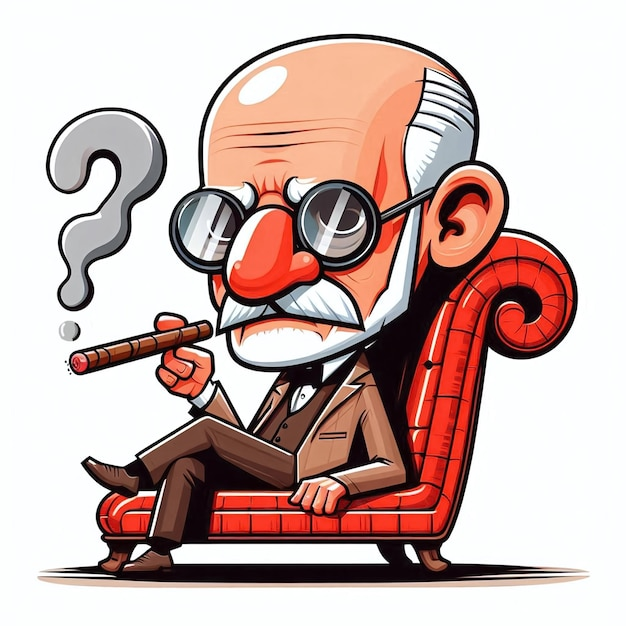
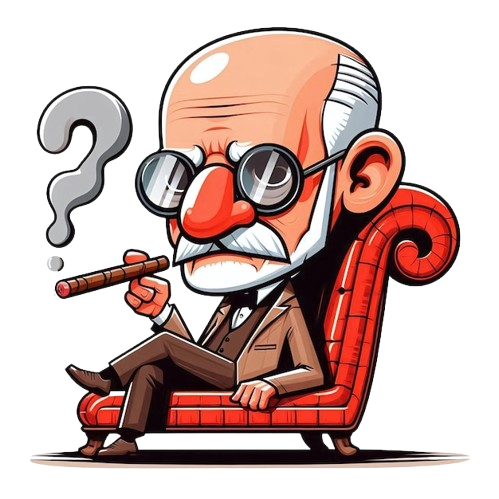
added texts

diff --git a/processo-seletivo.html b/processo-seletivo.html
@@ -83,11 +83,29 @@
 
       <div class="container" data-aos="fade-up" data-aos-delay="100">
         <div class="processo-seletivo-content">
-          <h3>Faça parte da nossa equipe!</h3>
-          <p>Lorem ipsum dolor sit amet, consectetur adipiscing elit. Sed do eiusmod tempor incididunt ut labore et dolore magna aliqua. Ut enim ad minim veniam, quis nostrud exercitation ullamco laboris.</p>
-          <p>Duis aute irure dolor in reprehenderit in voluptate velit esse cillum dolore eu fugiat nulla pariatur. Excepteur sint occaecat cupidatat non proident.</p>
-          <p>Lorem ipsum dolor sit amet, consectetur adipiscing elit. Sed do eiusmod tempor incididunt ut labore et dolore magna aliqua. Ut enim ad minim veniam, quis nostrud exercitation ullamco laboris.</p>
-          <p>Duis aute irure dolor in reprehenderit in voluptate velit esse cillum dolore eu fugiat nulla pariatur. Excepteur sint occaecat cupidatat non proident.</p>
+          <h3>Por que participar?</h3>
+          <p>Participar do Centro Acadêmico é construir o curso junto, desenvolver senso crítico, aprender na prática e transformar a experiência universitária.
+          <p><strong>Setores do centro acadêmico, funções e características: </strong><br> <br>
+
+            <strong> Setor de Cultura e Eventos:</strong><br>
+            Responsável pela organização de eventos acadêmicos, culturais e de integração entre os estudantes. Atua no planejamento, execução e divulgação das atividades.
+            Qualidades importantes: organização, criatividade, boa comunicação e trabalho em equipe. <br> <br>
+            
+            <strong> Tesouraria:</strong><br>
+            Cuida do controle financeiro, organização de recursos e repasse das informações financeiras definidas pela Diretoria.
+            Qualidades importantes: responsabilidade, transparência, atenção aos detalhes e comprometimento.<br> <br>
+            
+            <strong> Setor de Produtos:</strong><br>
+            Responsável pelo desenvolvimento e organização de produtos do Centro Acadêmico, como camisetas, brindes e materiais institucionais.
+            Qualidades importantes: criatividade, planejamento, senso estético e organização.<br><br>
+            
+            <strong> Marketing/Instagram:</strong><br>
+            Cuida da comunicação visual e da divulgação das ações do Centro Acadêmico, seguindo as diretrizes da Diretoria.
+            Qualidades importantes: criatividade, senso estético, boa escrita, constância e responsabilidade com informações.<br><br>
+            
+           <strong> Secretaria:</strong><br>
+            Responsável pela organização interna, registros, atas, documentos e apoio administrativo às atividades do Centro Acadêmico.
+            Qualidades importantes: organização, responsabilidade, clareza na comunicação e atenção.</p>
           <a href="#" class="processo-seletivo-btn">
             Inscreva-se Agora <i class="bi bi-arrow-right"></i>
           </a>

diff --git a/mascote.html b/mascote.html
@@ -90,12 +90,7 @@
 
           <div class="mascote-content" data-aos="fade-left" data-aos-delay="300">
             <h3>Olá, eu sou o <span>Freud</span>!</h3>
-            <p>Lorem ipsum dolor sit amet, consectetur adipiscing elit. Sed do eiusmod tempor incididunt ut labore et dolore magna aliqua. Ut enim ad minim veniam, quis nostrud exercitation ullamco laboris.</p>
-            <p>Duis aute irure dolor in reprehenderit in voluptate velit esse cillum dolore eu fugiat nulla pariatur. Excepteur sint occaecat cupidatat non proident.</p>
-            <p>Lorem ipsum dolor sit amet, consectetur adipiscing elit. Sed do eiusmod tempor incididunt ut labore et dolore magna aliqua. Ut enim ad minim veniam, quis nostrud exercitation ullamco laboris.</p>
-            <p>Duis aute irure dolor in reprehenderit in voluptate velit esse cillum dolore eu fugiat nulla pariatur. Excepteur sint occaecat cupidatat non proident.</p>
-            <p>Lorem ipsum dolor sit amet, consectetur adipiscing elit. Sed do eiusmod tempor incididunt ut labore et dolore magna aliqua. Ut enim ad minim veniam, quis nostrud exercitation ullamco laboris.</p>
-            <p>Duis aute irure dolor in reprehenderit in voluptate velit esse cillum dolore eu fugiat nulla pariatur. Excepteur sint occaecat cupidatat non proident.</p>
+            <p>Sigmund Freud nasceu em 1856, na atual República Tcheca, e viveu a maior parte da vida em Viena. Formou-se em medicina e, a partir de seus estudos clínicos, criou a psicanálise. Em 1938, fugiu do nazismo para Londres, onde morreu em 1939.</p>
           </div>
 
         </div>

diff --git a/index.html b/index.html
@@ -90,7 +90,9 @@
               <div class="divider"></div>
 
               <div class="description">
-                <p>Lorem ipsum dolor sit amet, consectetuer adipiscing elit. Aenean commodo ligula eget dolor. Aenean massa. Cum sociis natoque penatibus et magnis dis parturient montes, nascetur ridiculus mus. Donec quam felis, ultricies nec, pellentesque eu, pretium quis, sem. Nulla consequat massa quis enim. Donec pede justo, fringilla vel, aliquet nec, vulputate eget, arcu.</p>
+                <p>O Centro Acadêmico é a entidade que representa os estudantes do curso. Ele existe para dar voz aos alunos, fortalecer a vida acadêmica e aproximar estudantes, professores e a instituição.</p>
+                <br>
+                <p>Organizamos eventos, debates, ações acadêmicas, culturais, atividades de integração e espaços de troca, fortalecendo o sentimento de pertencimento e coletividade.</p>
               </div>
 
               <div class="cta-button">
@@ -104,7 +106,7 @@
           <div class="col-lg-5" data-aos="zoom-out">
             <div class="visual-content">
               <div class="fluid-shape">
-                <img src="assets/img/abstract/abstract-1.webp" alt="Abstract Fluid Shape" class="fluid-img">
+                <img src="assets\img\freud2.jpeg" alt="Abstract Fluid Shape" class="fluid-img">
               </div>
               </div>
             </div>
